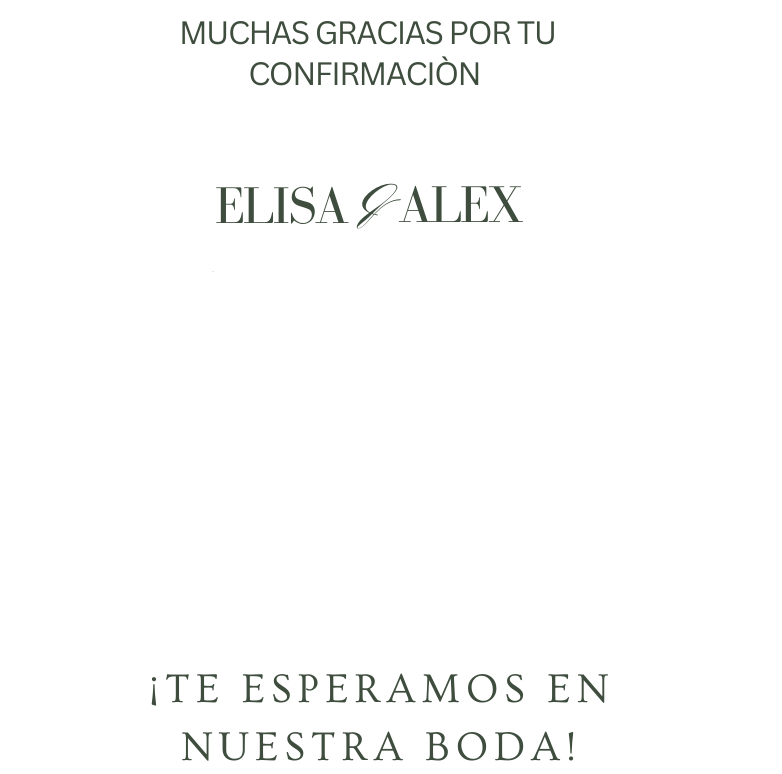
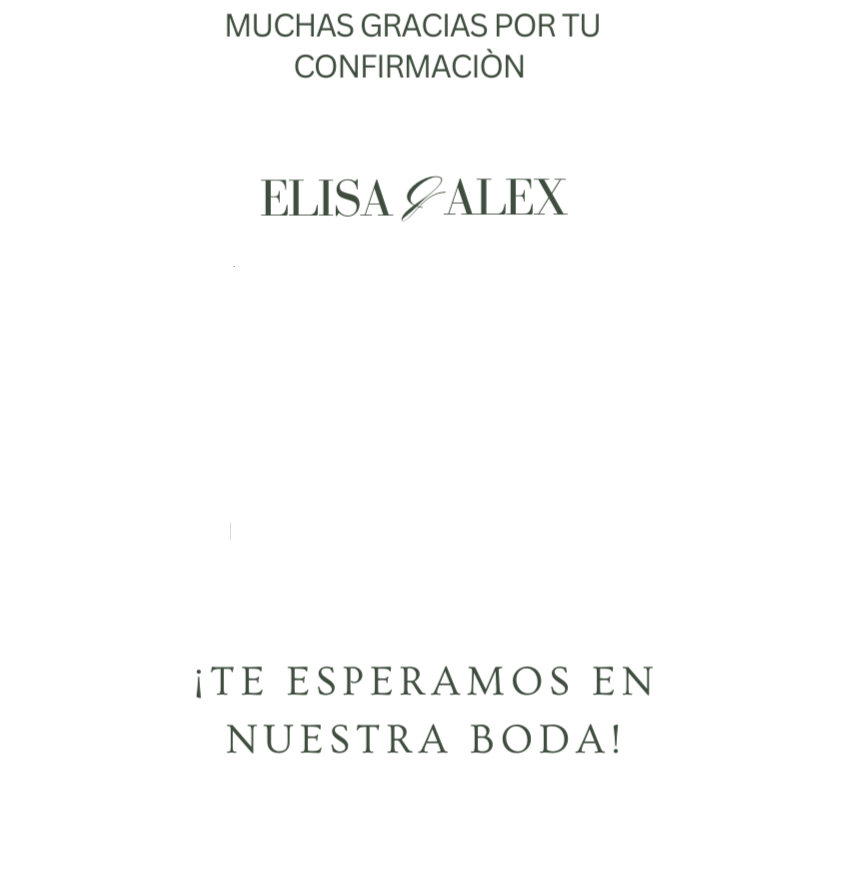
cambio de imagen

diff --git a/src/app/elisayalex/containers/FormConfirmationContainer.tsx b/src/app/elisayalex/containers/FormConfirmationContainer.tsx
@@ -76,24 +76,15 @@ function FormConfirmationContainer() {
   const ImageDialog: React.FC<ImageDialogProps> = ({ open, onClose }) => {
     return (
       <Dialog open={open} onClose={onClose} maxWidth="sm" fullWidth className="relative">
-        <DialogContent    onClick={onClose}>
-          <IconButton
-            edge="end"
-            color="inherit"
-      
-            aria-label="close"
-            style={{ position: 'absolute', right: 20, top: 10 }} // Estilo para posicionar el botón
-          >
-            <CloseIcon />
-          </IconButton>
-          <div className="flex justify-center items-center relative">
+        <DialogContent  onClick={onClose}>
+                   <div className="flex justify-center items-center relative">
 
             {!isQr && <Image src={imgNoQr} alt="Dialog" className="w-[300px]" />}
 
             {isQr && QRValue && (
               <>
                 <Image src={imgYesQr} alt="Dialog" className="w-[500px]" />
-                <div className="bg-white absolute w-[200px] h-[200px] flex justify-center items-center">
+                <div className=" absolute w-2/5 flex justify-center items-center">
                   <QRCode value={QRValue} className="m-auto" />
                 </div>
               </>
